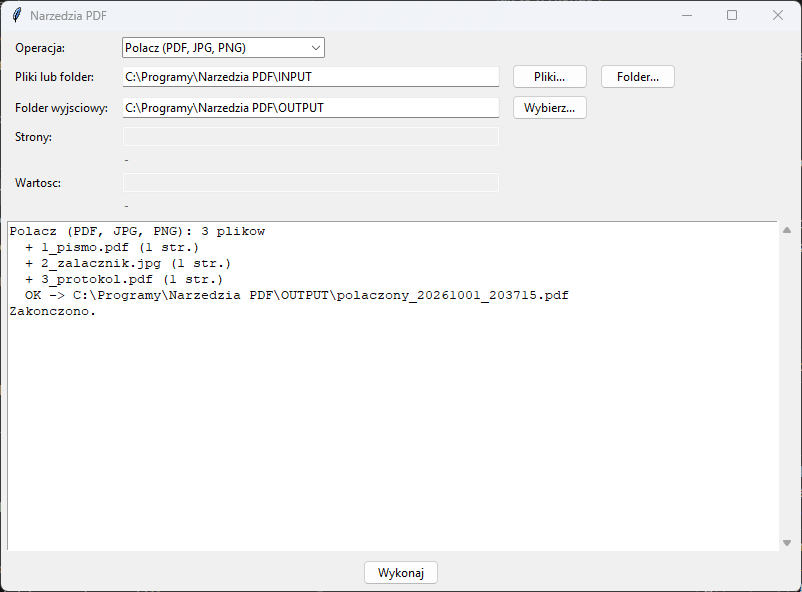
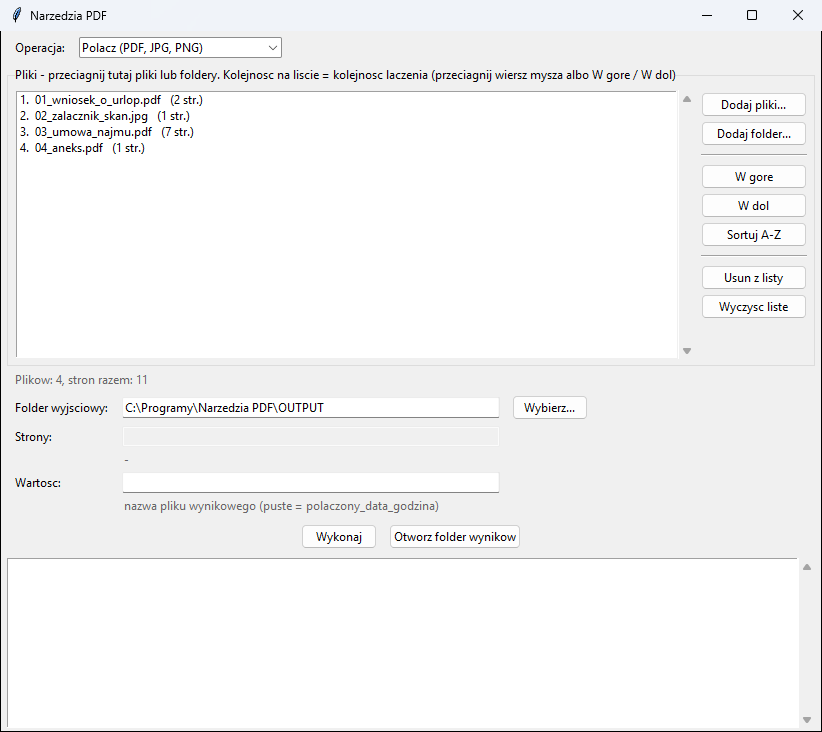
Lista plikow: przeciaganie z Eksploratora, kolejnosc laczenia, liczba stron
- lista plikow zamiast pola tekstowego: Dodaj pliki/folder, przeciaganie (tkinterdnd2),
  W gore/W dol, przeciaganie wiersza, Sortuj A-Z, Usun (Delete), Wyczysc, dwuklik = podglad
- liczba stron przy kazdym pliku i suma, pliki z INPUT na liscie od startu
- Polacz: nazwa pliku wynikowego w polu Wartosc
- przycisk Otworz folder wynikow; pole Wartosc czyszczone przy zmianie operacji

diff --git a/narzedzia_pdf.py b/narzedzia_pdf.py
@@ -97,7 +97,9 @@ def op_merge(files, out_dir, pages, value, log):
         out.insert_pdf(src)
         log("  + %s (%d str.)" % (os.path.basename(f), len(src)))
         src.close()
-    return [_save(out, os.path.join(out_dir, "polaczony_%s.pdf" % time.strftime("%Y%m%d_%H%M%S")))]
+    name = re.sub(r'[\\/:*?"<>|]', "_", re.sub(r"(?i)\.pdf$", "", value)).strip(" .")
+    name = name or "polaczony_%s" % time.strftime("%Y%m%d_%H%M%S")
+    return [_save(out, os.path.join(out_dir, name + ".pdf"))]
 
 
 def op_split(f, out_dir, pages, value, log):
@@ -195,7 +197,7 @@ def op_watermark(f, out_dir, pages, value, log):
 
 # nazwa: (funkcja, czy laczy wiele plikow, podpowiedz "Strony", podpowiedz "Wartosc")
 OPS = {
-    "Polacz (PDF, JPG, PNG)": (op_merge, True, "-", "-"),
+    "Polacz (PDF, JPG, PNG)": (op_merge, True, "-", "nazwa pliku wynikowego (puste = polaczony_data_godzina)"),
     "Podziel": (op_split, False, "np. 1-3,4-6 (puste = kazda strona osobno)", "-"),
     "Wybierz strony": (op_select, False, "np. 1,3,5-7 (w podanej kolejnosci)", "-"),
     "Usun strony": (op_delete, False, "np. 2,5-6", "-"),
@@ -207,14 +209,25 @@ OPS = {
 
 
 def list_inputs(inp, merge):
-    if isinstance(inp, (list, tuple)):
-        files = list(inp)
-    elif os.path.isdir(inp):
-        exts = (".pdf",) + (IMAGES if merge else ())
-        files = sorted(os.path.join(inp, f) for f in os.listdir(inp) if f.lower().endswith(exts))
-    else:
-        files = [inp]
+    """Plik, folder albo lista plikow/folderow -> lista plikow (folder: alfabetycznie)."""
+    exts = (".pdf",) + (IMAGES if merge else ())
+    files = []
+    for p in inp if isinstance(inp, (list, tuple)) else [inp]:
+        if os.path.isdir(p):
+            files += sorted(os.path.join(p, f) for f in os.listdir(p) if f.lower().endswith(exts))
+        else:
+            files.append(p)
     return files
+
+
+def page_count(path):
+    try:
+        doc = _open(path)
+    except Exception:
+        return "?"
+    n = len(doc)
+    doc.close()
+    return n
 
 
 def run(op, inp, out_dir, pages="", value="", log=print):
@@ -246,41 +259,127 @@ def gui():
     import tkinter as tk
     from tkinter import filedialog, ttk, scrolledtext
 
-    root = tk.Tk()
+    try:  # przeciaganie plikow z Eksploratora; bez biblioteki program dziala, tylko bez tego
+        from tkinterdnd2 import TkinterDnD, DND_FILES
+        root = TkinterDnD.Tk()
+    except ImportError:
+        root, DND_FILES = tk.Tk(), None
     root.title("Narzedzia PDF")
-    root.geometry("800x560")
+    root.geometry("820x700")
     pad = dict(padx=6, pady=3)
 
     v_op = tk.StringVar(value=next(iter(OPS)))
-    v_in = tk.StringVar(value=os.path.join(APP_DIR, "INPUT"))
     v_out = tk.StringVar(value=os.path.join(APP_DIR, "OUTPUT"))
     v_pages, v_value = tk.StringVar(), tk.StringVar()
-    picked = []  # pliki wybrane przyciskiem "Pliki..." (zachowana kolejnosc)
+    items, counts = [], {}  # pliki na liscie (kolejnosc = kolejnosc laczenia), liczba stron
+
+    top = ttk.Frame(root)
+    top.pack(fill="x", **pad)
+    ttk.Label(top, text="Operacja:").pack(side="left", **pad)
+    ttk.Combobox(top, textvariable=v_op, values=list(OPS), state="readonly",
+                 width=30).pack(side="left", **pad)
+
+    lf = ttk.LabelFrame(root, text="Pliki - " + ("przeciagnij tutaj pliki lub foldery. " if DND_FILES else "")
+                        + "Kolejnosc na liscie = kolejnosc laczenia (przeciagnij wiersz mysza albo W gore / W dol)")
+    lf.pack(fill="both", expand=True, **pad)
+    lb = tk.Listbox(lf, selectmode="extended", height=10, activestyle="none")
+    sb = ttk.Scrollbar(lf, command=lb.yview)
+    lb.config(yscrollcommand=sb.set)
+    lb.pack(side="left", fill="both", expand=True, padx=(6, 0), pady=6)
+    sb.pack(side="left", fill="y", pady=6)
+    side = ttk.Frame(lf)
+    side.pack(side="left", fill="y", padx=6, pady=6)
+    status = ttk.Label(root, foreground="#666")
+
+    def refresh(select=()):
+        lb.delete(0, "end")
+        for i, p in enumerate(items, 1):
+            lb.insert("end", "%2d.  %s   (%s str.)" % (i, os.path.basename(p), counts[p]))
+        for i in select:
+            lb.selection_set(i)
+        if select:
+            lb.see(select[0])
+        total = sum(c for c in counts.values() if c != "?")
+        status.config(text="Plikow: %d, stron razem: %d" % (len(items), total) if items else
+                      "Lista jest pusta - dodaj pliki przyciskiem lub przeciagnij je na liste.")
+
+    def add(paths):
+        skipped = []
+        for p in list_inputs(list(paths), True):
+            if not p.lower().endswith((".pdf",) + IMAGES):
+                skipped.append(os.path.basename(p))
+            elif p not in counts:
+                items.append(p)
+                counts[p] = 1 if p.lower().endswith(IMAGES) else page_count(p)
+        if skipped:
+            log("Pominieto (to nie PDF ani obraz): " + ", ".join(skipped))
+        refresh()
+
+    def move(d):
+        sel = list(lb.curselection())
+        if not sel or sel[0] + d < 0 or sel[-1] + d >= len(items):
+            return
+        for i in sel if d < 0 else reversed(sel):
+            items[i + d], items[i] = items[i], items[i + d]
+        refresh([i + d for i in sel])
+
+    def remove(*_):
+        for i in reversed(lb.curselection()):
+            counts.pop(items.pop(i))
+        refresh()
+
+    def clear():
+        items.clear()
+        counts.clear()
+        refresh()
+
+    def sort_az():
+        items.sort(key=lambda p: os.path.basename(p).lower())
+        refresh()
+
+    drag = {}
+
+    def on_press(e):
+        drag["i"] = lb.nearest(e.y)
+
+    def on_motion(e):  # przeciaganie wiersza zmienia kolejnosc
+        i, j = drag.get("i"), lb.nearest(e.y)
+        if i is not None and items and j != i:
+            items.insert(j, items.pop(i))
+            refresh([j])
+            drag["i"] = j
+        return "break"
+
+    def open_item(e):
+        i = lb.nearest(e.y)
+        if items and hasattr(os, "startfile"):
+            os.startfile(items[i])
+
+    lb.bind("<Button-1>", on_press)
+    lb.bind("<B1-Motion>", on_motion)
+    lb.bind("<Double-Button-1>", open_item)
+    lb.bind("<Delete>", remove)
+    if DND_FILES:
+        for w in (lb, lf):
+            w.drop_target_register(DND_FILES)
+            w.dnd_bind("<<Drop>>", lambda e: add(root.tk.splitlist(e.data)))
+
+    types = [("PDF i obrazy", "*.pdf *.jpg *.jpeg *.png *.bmp *.tif *.tiff")]
+    in_dir = os.path.join(APP_DIR, "INPUT")
+    for text, cmd in (("Dodaj pliki...", lambda: add(filedialog.askopenfilenames(filetypes=types, initialdir=in_dir))),
+                      ("Dodaj folder...", lambda: add([d] if (d := filedialog.askdirectory(initialdir=in_dir)) else [])),
+                      (None, None),
+                      ("W gore", lambda: move(-1)), ("W dol", lambda: move(1)), ("Sortuj A-Z", sort_az),
+                      (None, None),
+                      ("Usun z listy", remove), ("Wyczysc liste", clear)):
+        if text:
+            ttk.Button(side, text=text, command=cmd, width=16).pack(pady=2)
+        else:
+            ttk.Separator(side).pack(fill="x", pady=6)
+    status.pack(anchor="w", padx=12)
 
     f = ttk.Frame(root)
     f.pack(fill="x", **pad)
-    ttk.Label(f, text="Operacja:").grid(row=0, column=0, sticky="w", **pad)
-    ttk.Combobox(f, textvariable=v_op, values=list(OPS), state="readonly",
-                 width=30).grid(row=0, column=1, sticky="w", **pad)
-
-    def pick_files():
-        fs = filedialog.askopenfilenames(filetypes=[("PDF i obrazy", "*.pdf *.jpg *.jpeg *.png *.bmp *.tif *.tiff")])
-        if fs:
-            picked[:] = fs
-            v_in.set(" | ".join(os.path.basename(x) for x in fs))
-
-    def pick_dir():
-        d = filedialog.askdirectory()
-        if d:
-            picked.clear()
-            v_in.set(d)
-
-    ttk.Label(f, text="Pliki lub folder:").grid(row=1, column=0, sticky="w", **pad)
-    e_in = ttk.Entry(f, textvariable=v_in, width=62)
-    e_in.grid(row=1, column=1, **pad)
-    e_in.bind("<Key>", lambda e: picked.clear())
-    ttk.Button(f, text="Pliki...", command=pick_files).grid(row=1, column=2, **pad)
-    ttk.Button(f, text="Folder...", command=pick_dir).grid(row=1, column=3, **pad)
     ttk.Label(f, text="Folder wyjsciowy:").grid(row=2, column=0, sticky="w", **pad)
     ttk.Entry(f, textvariable=v_out, width=62).grid(row=2, column=1, **pad)
     ttk.Button(f, text="Wybierz...", command=lambda: v_out.set(
@@ -303,11 +402,25 @@ def gui():
         h_value.config(text=hv)
         e_pages.config(state="disabled" if hp == "-" else "normal")
         e_value.config(state="disabled" if hv == "-" else "normal")
+        v_value.set("")  # np. kat 90 z Obroc nie moze zostac nazwa pliku przy Polacz
 
     v_op.trace_add("write", on_op)
     on_op()
 
-    log_box = scrolledtext.ScrolledText(root, height=14)
+    bar = ttk.Frame(root)
+    bar.pack(pady=6)
+    btn = ttk.Button(bar, text="Wykonaj")
+    btn.pack(side="left", padx=6)
+
+    def open_out():
+        out = v_out.get().strip('" ')
+        if out and hasattr(os, "startfile"):
+            os.makedirs(out, exist_ok=True)
+            os.startfile(out)
+
+    ttk.Button(bar, text="Otworz folder wynikow", command=open_out).pack(side="left", padx=6)
+
+    log_box = scrolledtext.ScrolledText(root, height=8)
     log_box.pack(fill="both", expand=True, **pad)
 
     def log(msg):
@@ -316,14 +429,11 @@ def gui():
             log_box.see("end")
         root.after(0, put)
 
-    btn = ttk.Button(root, text="Wykonaj")
-    btn.pack(pady=6)
-
     def start():
-        inp = list(picked) or v_in.get().strip('" ')
+        inp = list(items)
         out = v_out.get().strip('" ')
-        if not picked and not os.path.exists(inp):
-            return log("Wskaz istniejacy plik lub folder.")
+        if not inp:
+            return log("Dodaj pliki do listy (przycisk 'Dodaj pliki...' albo przeciagnij je na liste).")
         if not out:
             return log("Wskaz folder wyjsciowy.")
         op = v_op.get()
@@ -342,6 +452,7 @@ def gui():
         threading.Thread(target=work, daemon=True).start()
 
     btn.config(command=start)
+    add([in_dir] if os.path.isdir(in_dir) else [])  # dotychczasowy sposob: pliki wrzucone do INPUT
     if "--selftest" in sys.argv:
         root.after(200, root.destroy)
     import aktualizacja
@@ -386,6 +497,11 @@ def selftest():
 
     r = run("Polacz (PDF, JPG, PNG)", [src, img], out, log=quiet)
     assert len(pages_of(r[0])) == 6
+    # kolejnosc z listy, nazwa z pola Wartosc (bez niedozwolonych znakow), folder na liscie rozwiniety
+    r = run("Polacz (PDF, JPG, PNG)", [img, src], out, value="umowa: skan.pdf", log=quiet)
+    assert os.path.basename(r[0]) == "umowa_ skan.pdf" and pages_of(r[0])[1].strip() == "Tresc strony 1"
+    assert list_inputs([img, tmp], True) == [img, src, img] and list_inputs(tmp, False) == [src]
+    assert page_count(src) == 5 and page_count(os.path.join(tmp, "brak.pdf")) == "?"
     r = run("Podziel", src, out, "1-2,3-5", log=quiet)
     assert [len(pages_of(x)) for x in r] == [2, 3] and r[1].endswith("_str3-5.pdf")
     r = run("Wybierz strony", src, out, "5,1", log=quiet)

diff --git a/README.md b/README.md
@@ -10,7 +10,7 @@ których trafiają dokumenty z danymi osobowymi.
 
 | Operacja | Pole „Strony” | Pole „Wartość” | Wynik |
 |----------|---------------|----------------|-------|
-| **Połącz (PDF, JPG, PNG)** | – | – | `polaczony_RRRRMMDD_GGMMSS.pdf` |
+| **Połącz (PDF, JPG, PNG)** | – | nazwa pliku wynikowego (puste = data i godzina) | `polaczony_RRRRMMDD_GGMMSS.pdf` lub podana nazwa |
 | **Podziel** | `1-3,4-6` → dwa pliki; puste → każda strona osobno | – | `nazwa_str1-3.pdf`, … |
 | **Wybierz strony** | `1,3,5-7` (w podanej kolejności) | – | `nazwa_wybrane.pdf` |
 | **Usuń strony** | `2,5-6` | – | `nazwa_bez_stron.pdf` |
@@ -22,10 +22,9 @@ których trafiają dokumenty z danymi osobowymi.
 Zakresy stron: `1-3` (od 1 do 3), `5` (jedna strona), `8-` (od 8 do końca),
 `-4` (od początku do 4), łączone przecinkiem. Strony liczone są od 1.
 
-Wskazany **folder** jest przetwarzany w całości: każdy plik osobno, a przy
-łączeniu wszystkie razem, w kolejności alfabetycznej. Jeśli kolejność
-łączenia ma znaczenie, nazwij pliki `01_…`, `02_…`. Przy wyborze kilku
-plików przyciskiem **Pliki…** kolejność ustala okno wyboru.
+Operacja jest wykonywana na **wszystkich plikach z listy**: każdy plik
+osobno, a przy łączeniu wszystkie razem, **w kolejności z listy**.
+Dodany folder trafia na listę jako jego pliki, alfabetycznie.
 
 ### Szczegóły
 
@@ -49,7 +48,7 @@ plików przyciskiem **Pliki…** kolejność ustala okno wyboru.
 2. **Program** — na stronie [github.com/DawidBochno/Narzedzia-PDF](https://github.com/DawidBochno/Narzedzia-PDF)
    kliknij zielony przycisk **Code → Download ZIP**. Rozpakuj archiwum,
    np. do `C:\Programy\Narzedzia PDF`. Nie uruchamiaj programu z wnętrza ZIP-a.
-3. Kliknij dwukrotnie **`install.bat`**. Instaluje bibliotekę `PyMuPDF` (potrzebny internet) i uruchamia test. Na końcu pojawia się
+3. Kliknij dwukrotnie **`install.bat`**. Instaluje biblioteki `PyMuPDF` i `tkinterdnd2` (potrzebny internet) i uruchamia test. Na końcu pojawia się
    **„selftest OK”**, co znaczy, że wszystko działa.
    Jeśli Windows pokaże „System Windows ochronił ten komputer”, kliknij
    **Więcej informacji → Uruchom mimo to**.
@@ -61,13 +60,22 @@ plików przyciskiem **Pliki…** kolejność ustala okno wyboru.
 
 1. Uruchom `uruchom.bat`.
 2. **Operacja** — wybierz z listy, co zrobić (tabela [Operacje](#operacje)).
-3. **Pliki lub folder** — **Pliki…** pozwala zaznaczyć kilka plików
-   naraz (z Ctrl), **Folder…** bierze wszystkie pliki z folderu.
+3. **Pliki** — przeciągnij pliki lub foldery z Eksploratora na listę
+   albo użyj **Dodaj pliki…** / **Dodaj folder…**. Pliki leżące
+   w folderze `INPUT` są na liście od razu po uruchomieniu. Przy każdym
+   pliku widać liczbę stron, a pod listą sumę.
+   - **Kolejność** (ważna przy łączeniu): przeciągnij wiersz myszą albo
+     zaznacz pliki i użyj **W górę** / **W dół**; **Sortuj A-Z** układa
+     alfabetycznie.
+   - **Usuń z listy** (lub klawisz Delete) i **Wyczyść listę** nie
+     kasują plików z dysku.
+   - Dwuklik na pliku otwiera go do podglądu.
 4. **Strony** i **Wartość** — wypełnij, jeśli operacja ich potrzebuje,
    np. `1-3,5` przy wyborze stron albo `90` przy obracaniu. Puste pole
    oznacza wartość domyślną.
 5. Kliknij **Wykonaj**. Wyniki trafiają do folderu wyjściowego
-   (domyślnie `OUTPUT`), a oryginały zostają bez zmian.
+   (domyślnie `OUTPUT`), a oryginały zostają bez zmian. Przycisk
+   **Otwórz folder wyników** otwiera ten folder w Eksploratorze.
 
 ## Aktualizacje
 
